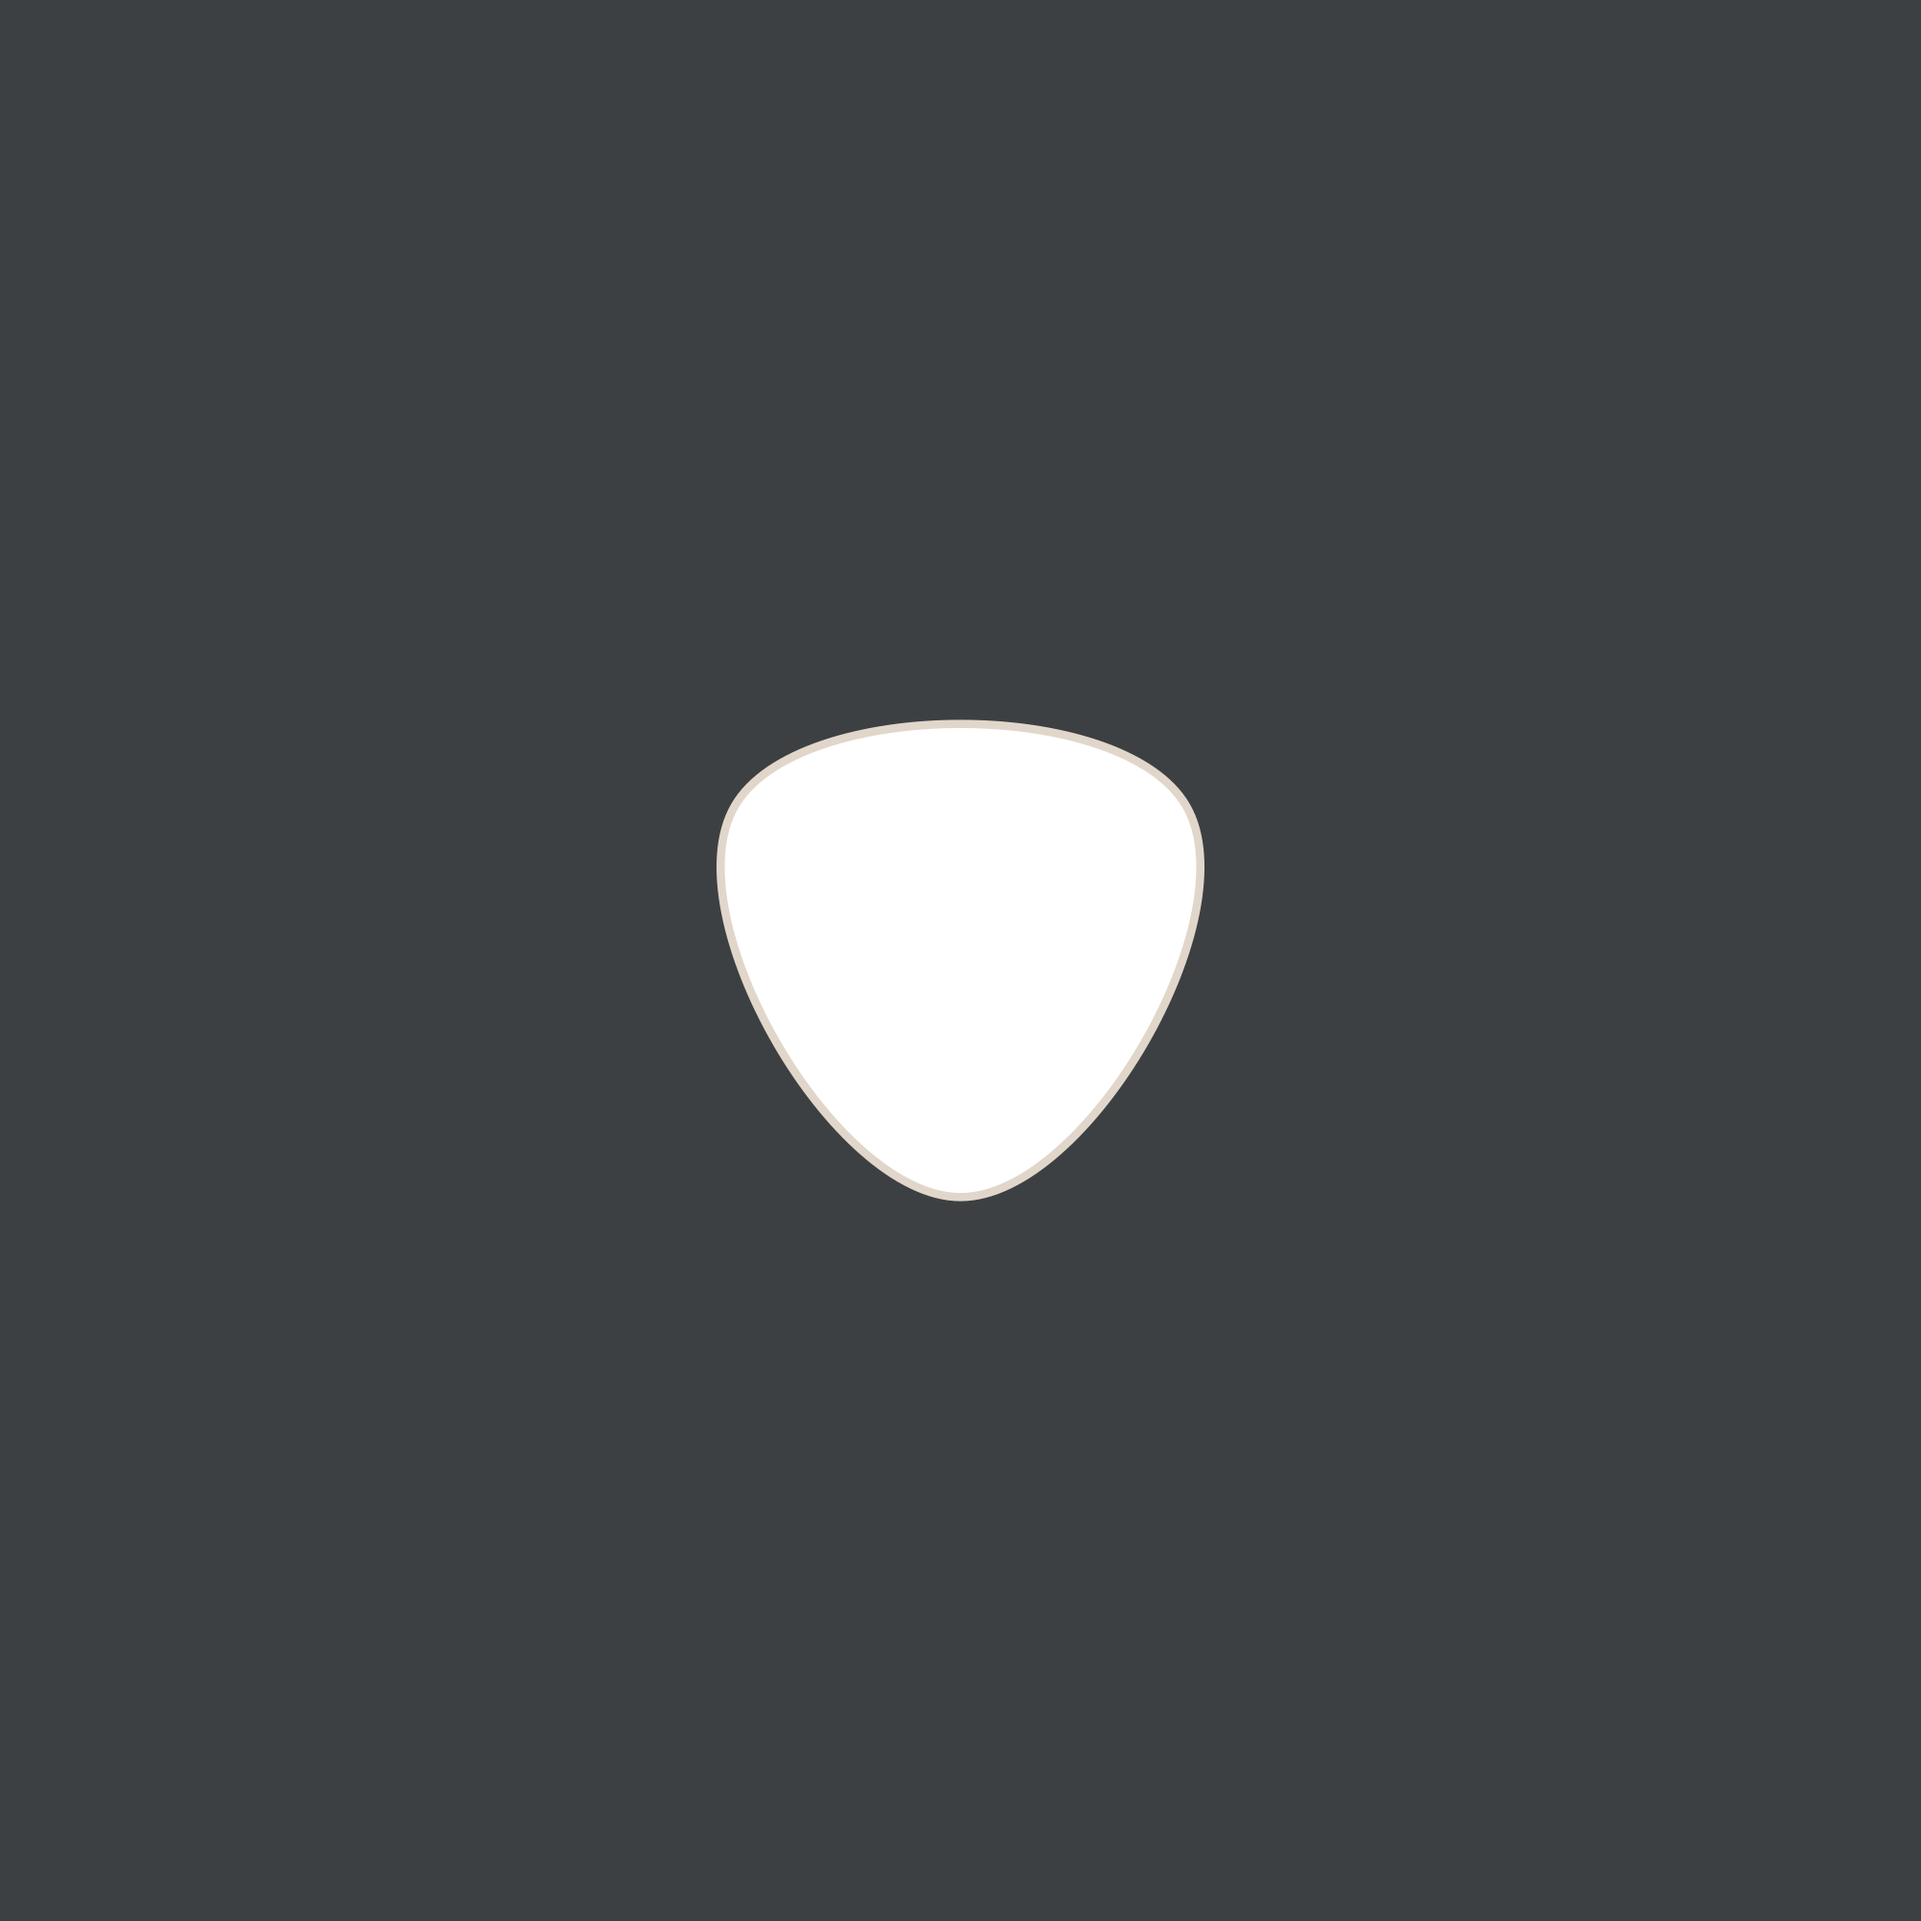
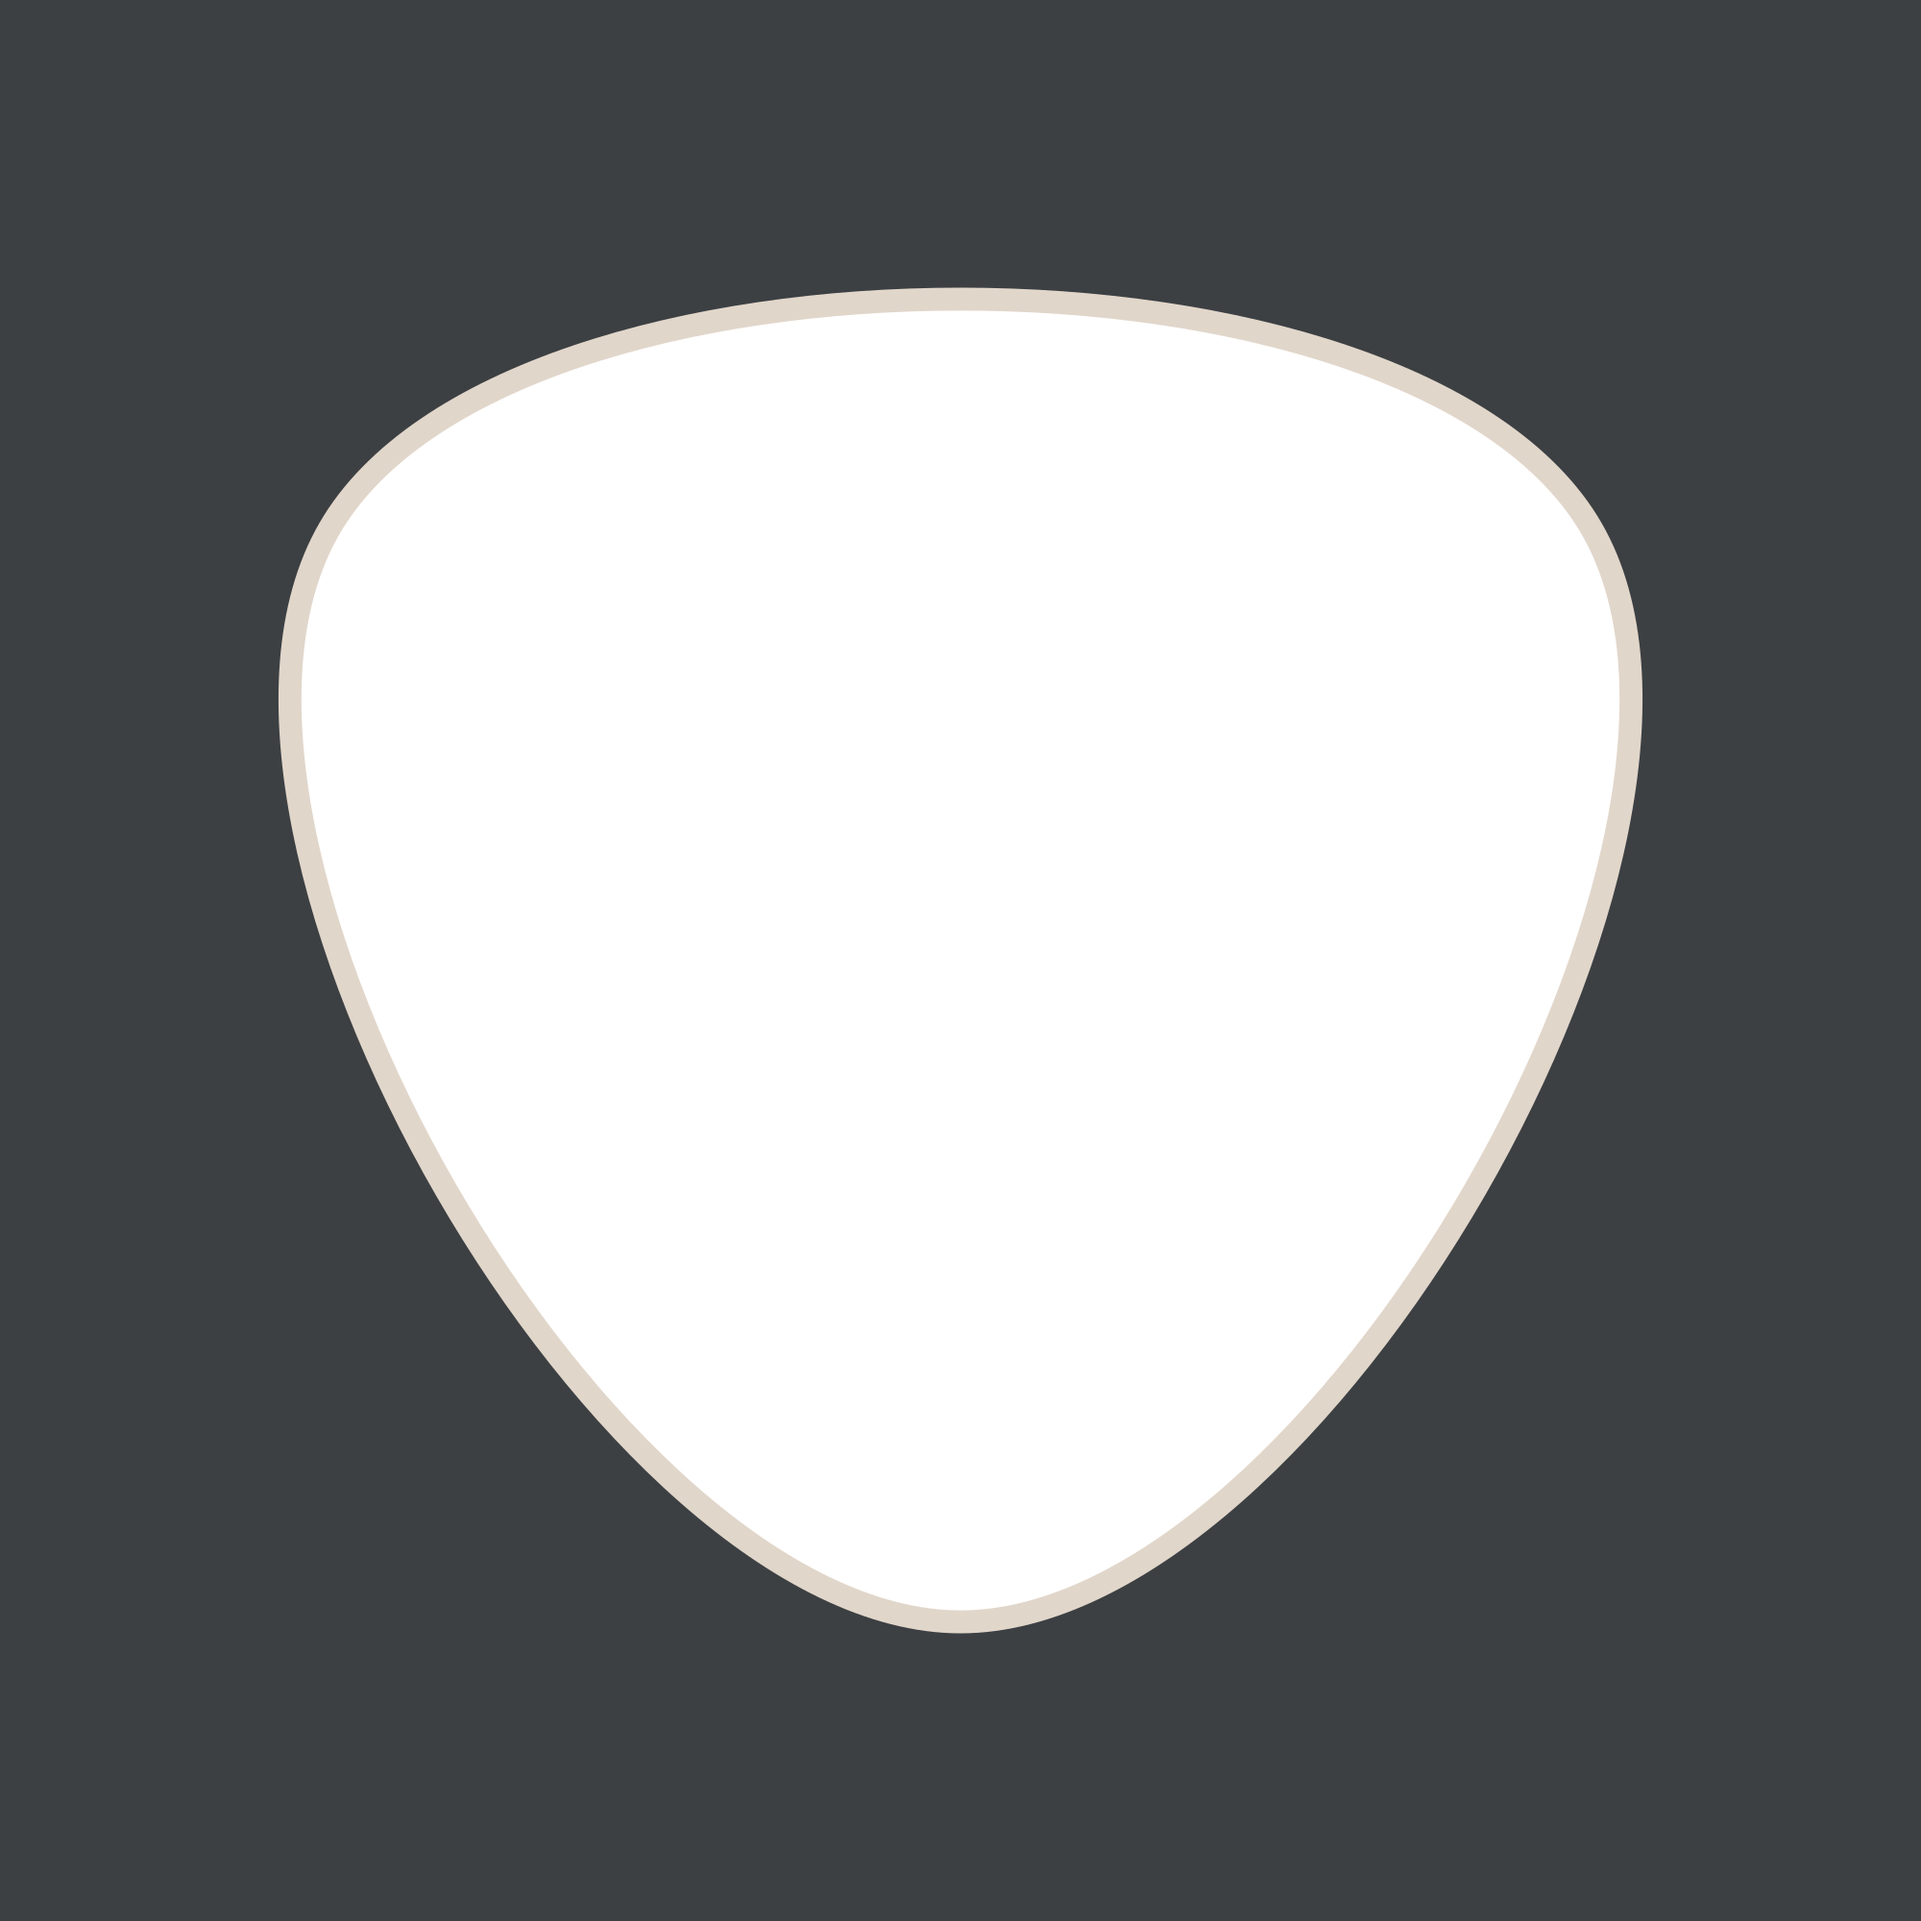
bug fixes

diff --git a/projects/pr2.html b/projects/pr2.html
@@ -42,7 +42,7 @@
     </style>
     <link rel="prerender" href='./pr2/whiskersnoserevert.png'>
 </head>
-<body style="background-color: #E1D6CA;">
+<body id="body" style="background-color: #E1D6CA;">
 <div id="meow1div" style="position: fixed; top: 0px; left: 0px; height: 100%; width: 100%; margins: auto;">
     <div class="top left"></div>
         <img id="meow1l1" src="./pr2/meow1l1.svg" style="position: absolute; left: calc((50vw) - (((10vh + 10vw) * 2.814232586) / 2)); top: calc((3vh + 3vw) + (50vh  - (8vh + 8vw))); height: calc(10vh + 10vw);">
@@ -90,6 +90,7 @@ window.onscroll = function() {
     var top = window.pageYOffset;
     const windowheight = window.innerHeight;
     const windowwidth = window.innerWidth;
+    const body = document.getElementById("body");
     const meow1l1 = document.getElementById("meow1l1");
     const meow1l2 = document.getElementById("meow1l2");
     const meow1l3 = document.getElementById("meow1l3");
@@ -164,7 +165,9 @@ window.onscroll = function() {
         };
     };
     if (top > (5 * windowheight) && top < (6 * windowheight)) {
-        whiskersnose.opacity = "100%";
+        whiskersnose.style.opacity = "1";
+	whiskersnoseinvert.style.opacity = "0";
+	body.style = "background-color: #3c4043ff;";
         whiskersnoserevert1.style = `position: fixed; top: 50%; left: 50%; opacity: 100%; transform: translateX(-50%) translateY(-50%) scale(${(top - (5 * windowheight)) / (windowheight / 20)}) rotate(${(top/2) * -1}deg);`
         whiskersnoserevert2.style = `position: fixed; top: 50%; left: 50%; opacity: 100%; transform: translateX(-50%) translateY(-50%) scale(${(top - (5 * windowheight)) / (windowheight / 40)}) rotate(${top/2}deg);`
         whiskersnoserevert3.style = `position: fixed; top: 50%; left: 50%; opacity: 100%; transform: translateX(-50%) translateY(-50%) scale(${(top - (5 * windowheight)) / (windowheight / 60)}) rotate(${(top/2.1) * -1}deg);`
@@ -185,7 +188,7 @@ window.onscroll = function() {
         whiskersnoserevert18.style = `position: fixed; top: 50%; left: 50%; opacity: 100%; transform: translateX(-50%) translateY(-50%) scale(${(top - (5 * windowheight)) / (windowheight / 360)}) rotate(${top/2.8}deg);`
         whiskersnoserevert19.style = `position: fixed; top: 50%; left: 50%; opacity: 100%; transform: translateX(-50%) translateY(-50%) scale(${(top - (5 * windowheight)) / (windowheight / 380)}) rotate(${(top/2.9) * -1}deg);`
         whiskersnoserevert20.style = `position: fixed; top: 50%; left: 50%; opacity: 100%; transform: translateX(-50%) translateY(-50%) scale(${(top - (5 * windowheight)) / (windowheight / 400)}) rotate(${top/2.9}deg);`
-        cat.style = `position: fixed; top: 50%; left: 50%; opacity: 100%; transform: translateX(-50%) translateY(-50%) scale(${(top - (5 * windowheight)) / (windowheight / 2)});`
+        cat.style = `position: fixed; top: 50%; left: 50%; opacity: 100%; transform: translateX(-50%) translateY(-50%) scale(${(top - (5 * windowheight)) / (windowheight / 10)});`
         if (windowheight > windowwidth) {
             whiskersnoserevert1.style.width =  "100vw";
             whiskersnoserevert2.style.width =  "100vw";
@@ -279,12 +282,14 @@ window.onscroll = function() {
         whiskersnoserevert19.style.opacity = "0%"
         whiskersnoserevert20.style.opacity = "0%"
         cat.style.opacity = "0%"
+	body.style = "background-color: #E1D6CA;";
     };
 };
 window.onresize = function() {
     var top = window.pageYOffset;
     const windowheight = window.innerHeight;
     const windowwidth = window.innerWidth;
+    const body = document.getElementById("body");
     const meow1l1 = document.getElementById("meow1l1");
     const meow1l2 = document.getElementById("meow1l2");
     const meow1l3 = document.getElementById("meow1l3");
@@ -359,7 +364,9 @@ window.onresize = function() {
         };
     };
     if (top > (5 * windowheight) && top < (6 * windowheight)) {
-        whiskersnose.opacity = "100%";
+        whiskersnose.style.opacity = "1";
+	whiskersnoseinvert.style.opacity = "0";
+	body.style = "background-color: #3c4043ff;";
         whiskersnoserevert1.style = `position: fixed; top: 50%; left: 50%; opacity: 100%; transform: translateX(-50%) translateY(-50%) scale(${(top - (5 * windowheight)) / (windowheight / 20)}) rotate(${(top/2) * -1}deg);`
         whiskersnoserevert2.style = `position: fixed; top: 50%; left: 50%; opacity: 100%; transform: translateX(-50%) translateY(-50%) scale(${(top - (5 * windowheight)) / (windowheight / 40)}) rotate(${top/2}deg);`
         whiskersnoserevert3.style = `position: fixed; top: 50%; left: 50%; opacity: 100%; transform: translateX(-50%) translateY(-50%) scale(${(top - (5 * windowheight)) / (windowheight / 60)}) rotate(${(top/2.1) * -1}deg);`
@@ -380,7 +387,7 @@ window.onresize = function() {
         whiskersnoserevert18.style = `position: fixed; top: 50%; left: 50%; opacity: 100%; transform: translateX(-50%) translateY(-50%) scale(${(top - (5 * windowheight)) / (windowheight / 360)}) rotate(${top/2.8}deg);`
         whiskersnoserevert19.style = `position: fixed; top: 50%; left: 50%; opacity: 100%; transform: translateX(-50%) translateY(-50%) scale(${(top - (5 * windowheight)) / (windowheight / 380)}) rotate(${(top/2.9) * -1}deg);`
         whiskersnoserevert20.style = `position: fixed; top: 50%; left: 50%; opacity: 100%; transform: translateX(-50%) translateY(-50%) scale(${(top - (5 * windowheight)) / (windowheight / 400)}) rotate(${top/2.9}deg);`
-        cat.style = `position: fixed; top: 50%; left: 50%; opacity: 100%; transform: translateX(-50%) translateY(-50%) scale(${(top - (5 * windowheight)) / (windowheight / 2)});`
+        cat.style = `position: fixed; top: 50%; left: 50%; opacity: 100%; transform: translateX(-50%) translateY(-50%) scale(${(top - (5 * windowheight)) / (windowheight / 10)});`
         if (windowheight > windowwidth) {
             whiskersnoserevert1.style.width =  "100vw";
             whiskersnoserevert2.style.width =  "100vw";
@@ -474,12 +481,14 @@ window.onresize = function() {
         whiskersnoserevert19.style.opacity = "0%"
         whiskersnoserevert20.style.opacity = "0%"
         cat.style.opacity = "0%"
+	body.style = "background-color: #E1D6CA;";
     };
 };
 window.onload = function() {
     var top = window.pageYOffset;
     const windowheight = window.innerHeight;
     const windowwidth = window.innerWidth;
+    const body = document.getElementById("body");
     const meow1l1 = document.getElementById("meow1l1");
     const meow1l2 = document.getElementById("meow1l2");
     const meow1l3 = document.getElementById("meow1l3");
@@ -554,7 +563,9 @@ window.onload = function() {
         };
     };
     if (top > (5 * windowheight) && top < (6 * windowheight)) {
-        whiskersnose.opacity = "100%";
+        whiskersnose.style.opacity = "1";
+	body.style = "background-color: #3c4043ff;";
+	whiskersnoseinvert.style.opacity = "0";
         whiskersnoserevert1.style = `position: fixed; top: 50%; left: 50%; opacity: 100%; transform: translateX(-50%) translateY(-50%) scale(${(top - (5 * windowheight)) / (windowheight / 20)}) rotate(${(top/2) * -1}deg);`
         whiskersnoserevert2.style = `position: fixed; top: 50%; left: 50%; opacity: 100%; transform: translateX(-50%) translateY(-50%) scale(${(top - (5 * windowheight)) / (windowheight / 40)}) rotate(${top/2}deg);`
         whiskersnoserevert3.style = `position: fixed; top: 50%; left: 50%; opacity: 100%; transform: translateX(-50%) translateY(-50%) scale(${(top - (5 * windowheight)) / (windowheight / 60)}) rotate(${(top/2.1) * -1}deg);`
@@ -575,7 +586,7 @@ window.onload = function() {
         whiskersnoserevert18.style = `position: fixed; top: 50%; left: 50%; opacity: 100%; transform: translateX(-50%) translateY(-50%) scale(${(top - (5 * windowheight)) / (windowheight / 360)}) rotate(${top/2.8}deg);`
         whiskersnoserevert19.style = `position: fixed; top: 50%; left: 50%; opacity: 100%; transform: translateX(-50%) translateY(-50%) scale(${(top - (5 * windowheight)) / (windowheight / 380)}) rotate(${(top/2.9) * -1}deg);`
         whiskersnoserevert20.style = `position: fixed; top: 50%; left: 50%; opacity: 100%; transform: translateX(-50%) translateY(-50%) scale(${(top - (5 * windowheight)) / (windowheight / 400)}) rotate(${top/2.9}deg);`
-        cat.style = `position: fixed; top: 50%; left: 50%; opacity: 100%; transform: translateX(-50%) translateY(-50%) scale(${(top - (5 * windowheight)) / (windowheight / 2)});`
+        cat.style = `position: fixed; top: 50%; left: 50%; opacity: 100%; transform: translateX(-50%) translateY(-50%) scale(${(top - (5 * windowheight)) / (windowheight / 10)});`
         if (windowheight > windowwidth) {
             whiskersnoserevert1.style.width =  "100vw";
             whiskersnoserevert2.style.width =  "100vw";
@@ -669,9 +680,10 @@ window.onload = function() {
         whiskersnoserevert19.style.opacity = "0%"
         whiskersnoserevert20.style.opacity = "0%"
         cat.style.opacity = "0%"
+	body.style = "background-color: #E1D6CA;";
     };
 };
 </script>
-<h1 id="pad" style="padding: 700vh 0px 0px 0px; margin: 0;"></h1>
+<h1 id="pad" style="padding: 630vh 0px 0px 0px; margin: 0;"></h1>
 </body>
 </html>
